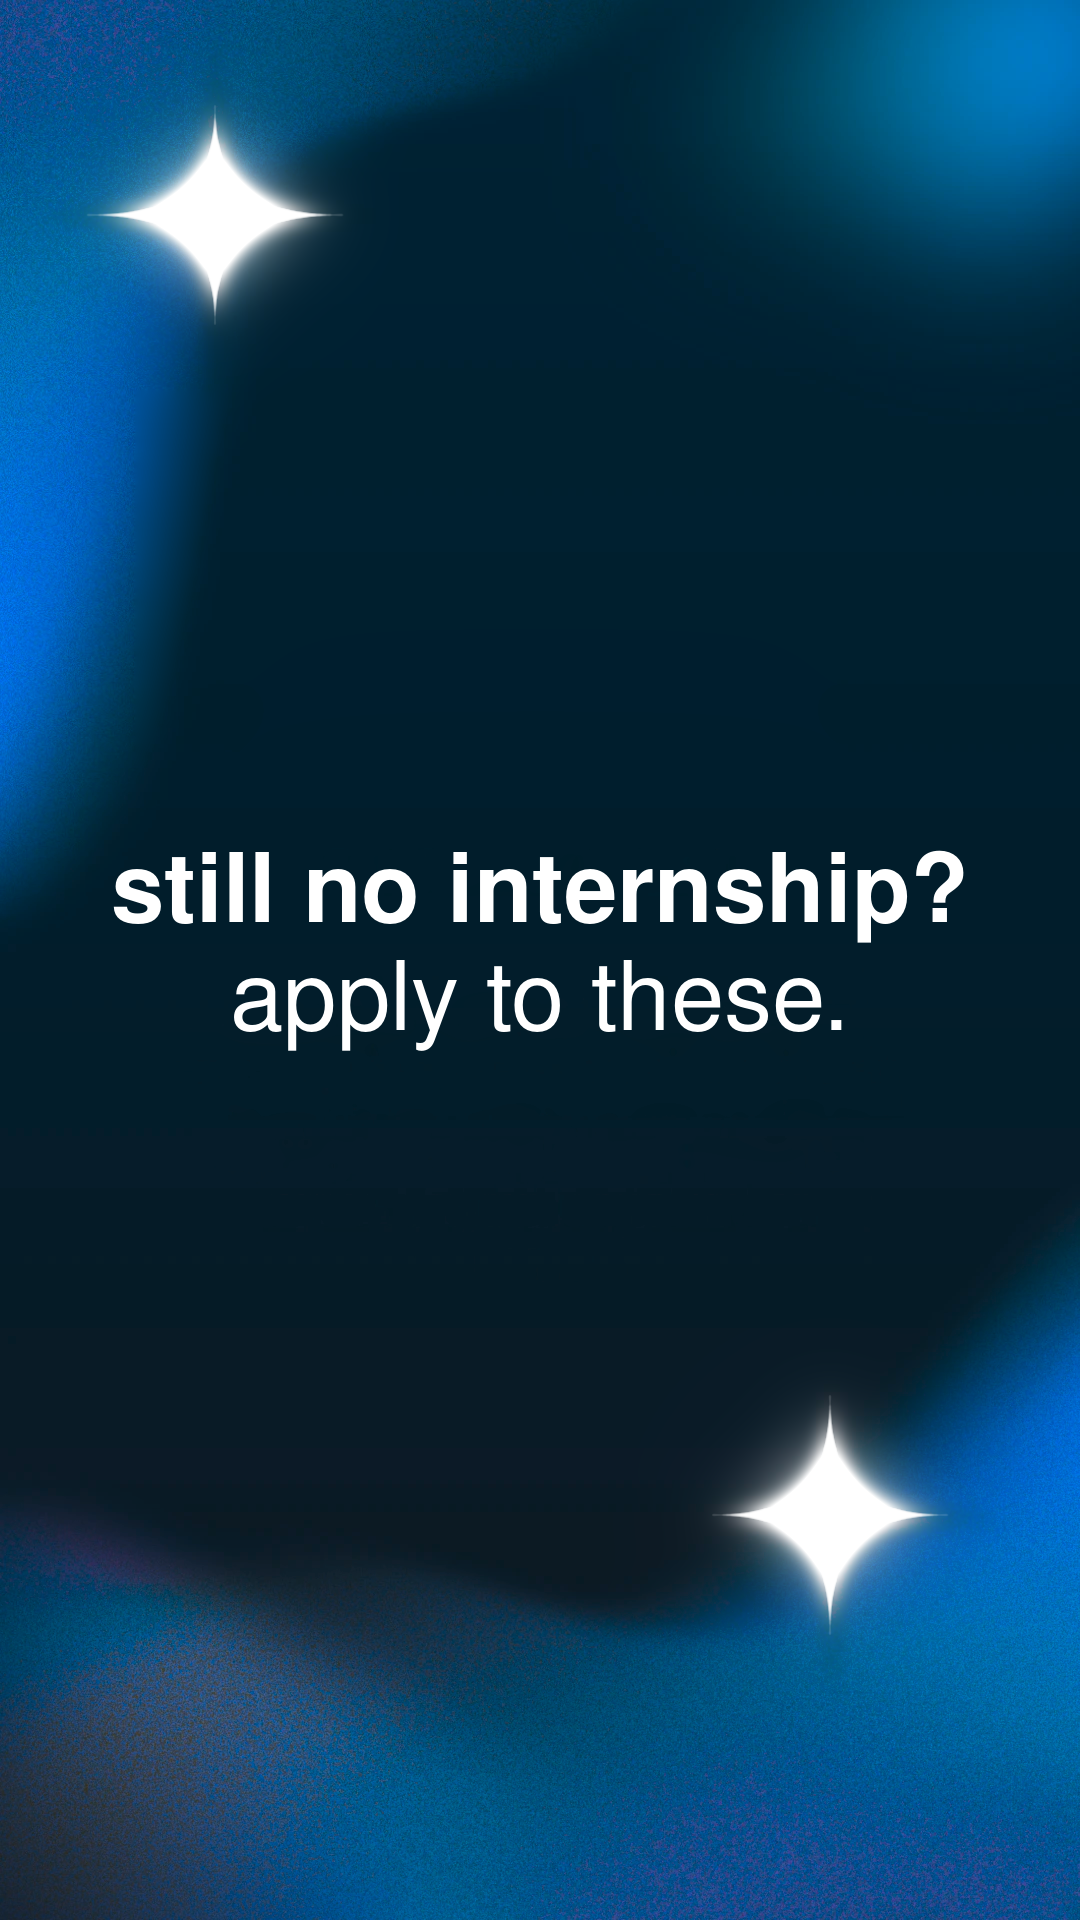
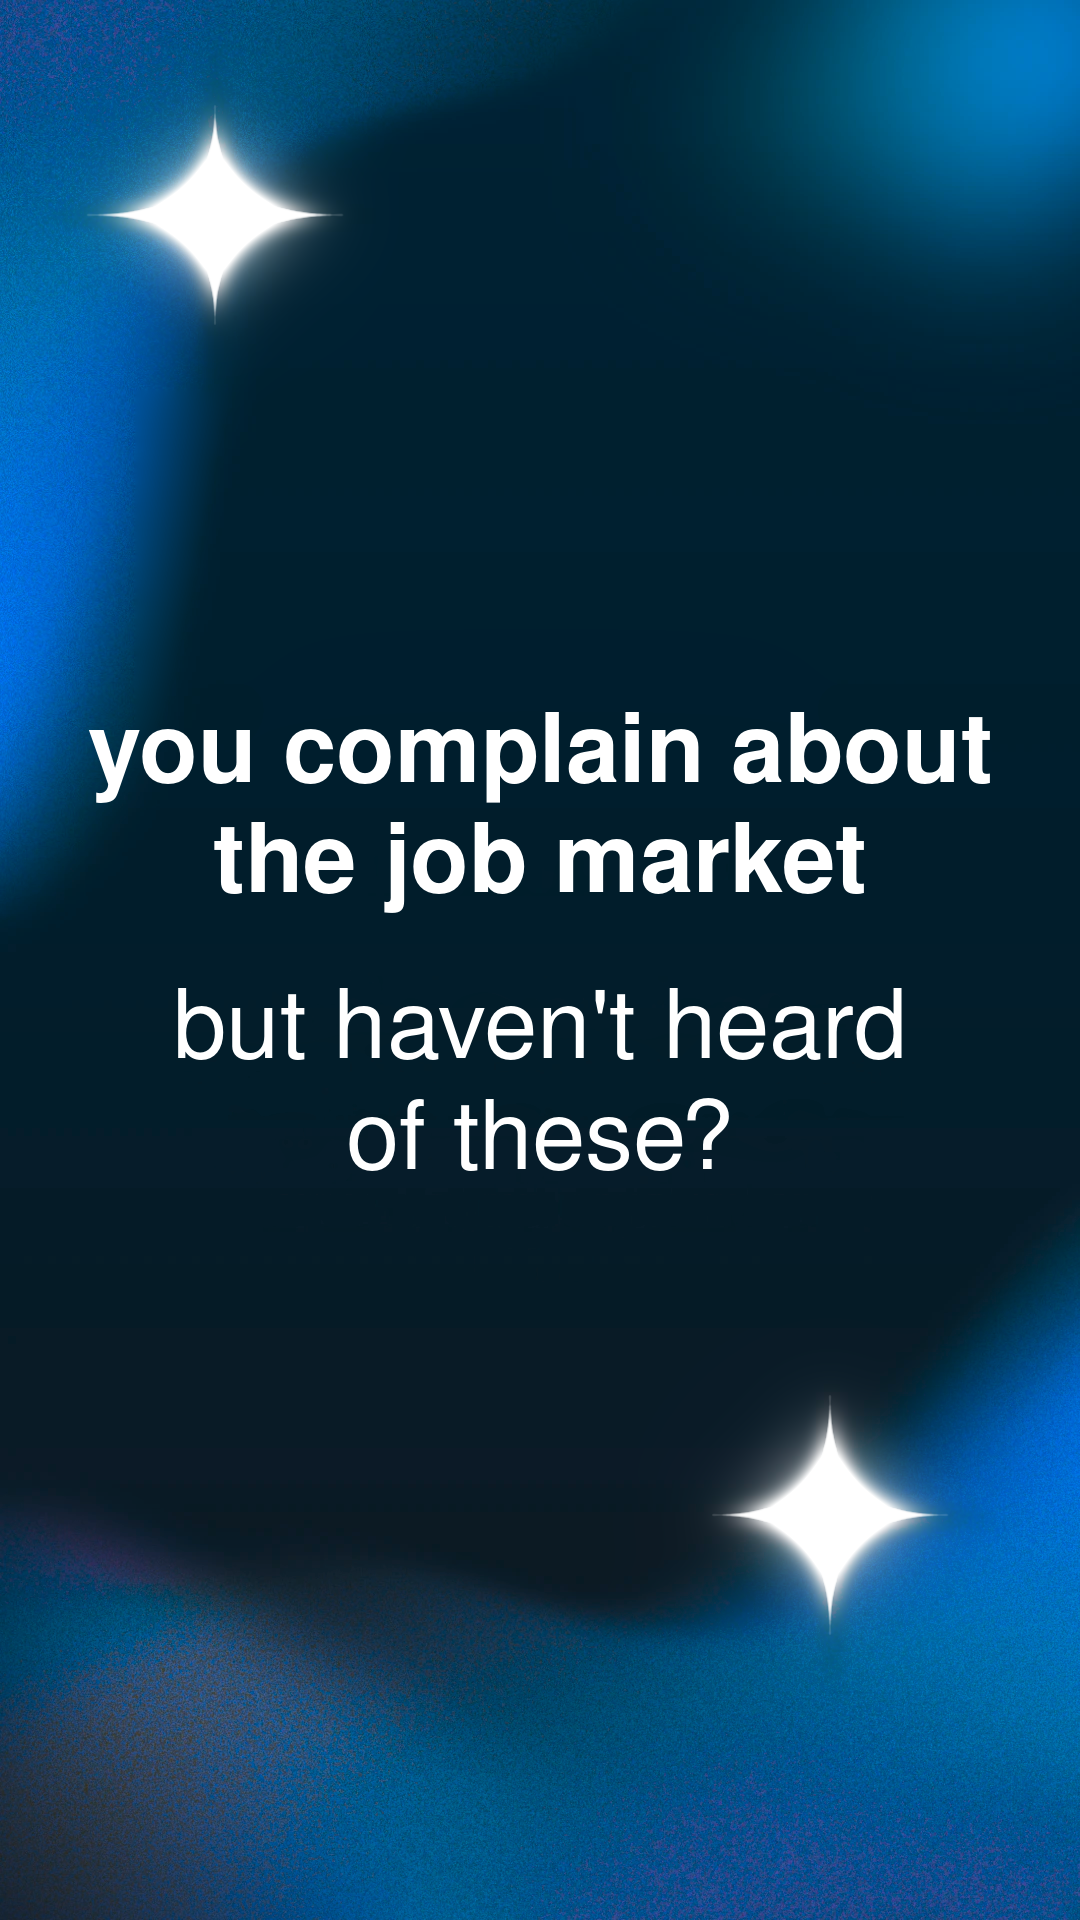
Add attention-grabbing cover and alternate cover options
Claude-Session: https://claude.ai/code/session_01Xo7HnJGz5n5KZLb1Sbzz9R

Changed region(s): [[0.0917, 0.375, 0.9167, 0.625]]

diff --git a/fellowship-slides/make_slides.py b/fellowship-slides/make_slides.py
@@ -19,8 +19,18 @@ HELVETICA = {  # Nimbus Sans: URW's metric-compatible Helvetica clone
     "bold": ROOT / "assets" / "NimbusSans-Bold.otf",
 }
 TEXT_COLOR = (255, 255, 255)
-COVER_LINES = [("still no internship?", "bold"), ("apply to these.", "regular")]
 COVER_SIZE = 96
+# Each cover is a list of (text, weight); None marks a half-line gap.
+# The first cover becomes output/00-cover.png, the rest go to output/cover-options/.
+COVERS = {
+    "complain": [("you complain about", "bold"), ("the job market", "bold"), None,
+                 ("but haven't heard", "regular"), ("of these?", "regular")],
+    "bet": [("i bet you've", "bold"), ("never heard", "bold"), ("of these.", "bold")],
+    "cooked": [("stop saying the", "bold"), ("market is cooked.", "bold"), None,
+               ("you haven't applied", "regular"), ("to these yet.", "regular")],
+    "nobody": [("cs programs", "bold"), ("nobody tells", "bold"), ("you about.", "bold")],
+    "still": [("still no internship?", "bold"), ("apply to these.", "regular")],
+}
 
 # Measured from the original Canva slides.
 CENTER_X = 540
@@ -153,17 +163,23 @@ def render(program, index):
     return out, len(lines)
 
 
-def render_cover():
+def render_cover(name, lines, out):
     slide = Image.open(BACKGROUND).convert("RGBA")
     draw = ImageDraw.Draw(slide)
-    fonts = [ImageFont.truetype(str(HELVETICA[w]), COVER_SIZE) for _, w in COVER_LINES]
     pitch = COVER_SIZE * 1.15
-    top = 960 - pitch * len(COVER_LINES) / 2
-    for i, ((text, _), f) in enumerate(zip(COVER_LINES, fonts)):
+    height = sum(pitch if line else pitch / 2 for line in lines)
+    y = 960 - height / 2
+    for line in lines:
+        if line is None:
+            y += pitch / 2
+            continue
+        text, weight = line
+        f = ImageFont.truetype(str(HELVETICA[weight]), COVER_SIZE)
         if f.getlength(text) > 940:
-            raise ValueError(f"cover line too wide: {text}")
-        draw.text((CENTER_X, top + i * pitch), text, font=f, fill=TEXT_COLOR, anchor="mt")
-    out = ROOT / "output" / "00-cover.png"
+            raise ValueError(f"cover '{name}' line too wide: {text}")
+        draw.text((CENTER_X, y), text, font=f, fill=TEXT_COLOR, anchor="mt")
+        y += pitch
+    out.parent.mkdir(exist_ok=True)
     slide.convert("RGB").save(out, optimize=True)
     return out
 
@@ -172,7 +188,9 @@ def main():
     programs = json.loads((ROOT / "programs.json").read_text())
     wanted = set(sys.argv[1:])
     if not wanted or "cover" in wanted:
-        print(render_cover().relative_to(ROOT))
+        for i, (name, lines) in enumerate(COVERS.items()):
+            out = ROOT / "output" / ("00-cover.png" if i == 0 else f"cover-options/cover-{name}.png")
+            print(render_cover(name, lines, out).relative_to(ROOT))
     for i, program in enumerate(programs, 1):
         if wanted and program["slug"] not in wanted:
             continue
